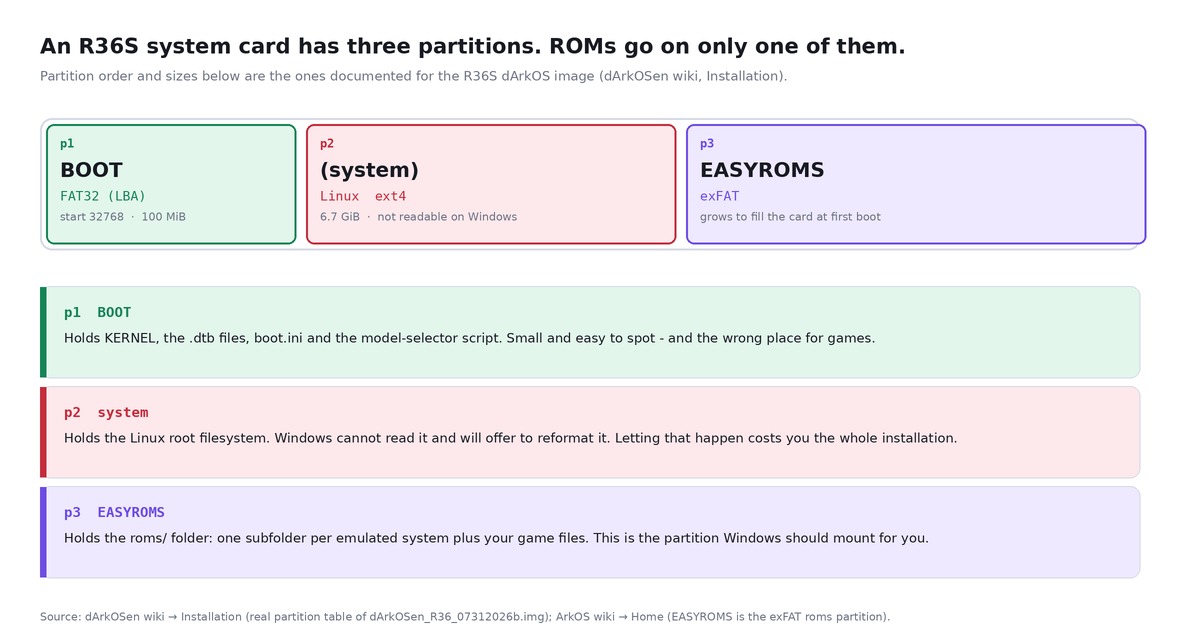
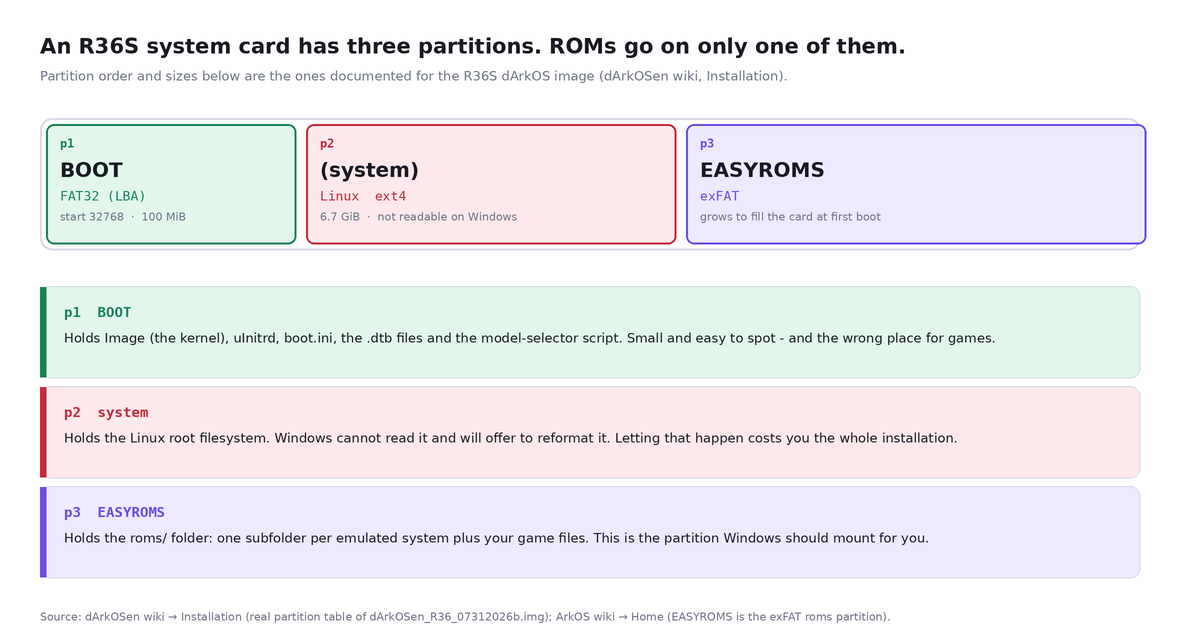
Correct the BOOT partition contents: Image + uInitrd, not uImage/KERNEL
The R36S boot.ini loads 'Image' and 'uInitrd', not a uImage - verified against the
real BOOT staging tree and boot.ini in southoz/dArkOSRE-R36. Fixes the partition
table row, the figure, and adds the BOOT tree as a source.

Changed region(s): [[0.0915, 0.5, 0.8237, 0.5625]]

diff --git a/README.zh-CN.md b/README.zh-CN.md
@@ -58,7 +58,7 @@ R36S **不是安卓**。没有 KPA 设备盘，没有 APK 要装，也没有"首
 
 | 分区 | 起始扇区 | 镜像内大小 | 类型码 | 装什么 |
 |---|---|---|---|---|
-| p1 | 32768 | 100 MiB | `0c` W95 FAT32 (LBA) | `KERNEL`、`.dtb` 文件、`boot.ini`、机型选择脚本 |
+| p1 | 32768 | 100 MiB | `0c` W95 FAT32 (LBA) | `Image`（内核）、`uInitrd`、`boot.ini`、`.dtb` 文件、机型选择脚本 |
 | p2 | 237568 | 6.7 GiB | `83` Linux (ext4) | Linux 根文件系统 |
 | p3 | 14368768 | 100 MiB 占位 | `07` HPFS/NTFS/exFAT | **首次开机后长成整卡并转成 exFAT，就是 `EASYROMS`** |
 
@@ -318,6 +318,7 @@ ArkOS 记录了两种完全不碰读卡器的加游戏方式：
 | 主张 | 来源 |
 |---|---|
 | `roms/` 下 122 个默认目录名 | [christianhaitian/arkos](https://github.com/christianhaitian/arkos) 仓库里的 `defaultromsfolderstructure.tar`，2026-10-11 用 `tar tf` 实跑核对 |
+| `BOOT` 分区里到底装什么，以及真实的 `boot.ini`（`load mmc 1:1 … Image`、`uInitrd`、`rk3326-r36s-linux.dtb`） | [`southoz/dArkOSRE-R36` → `files/BOOT/`](https://github.com/southoz/dArkOSRE-R36/tree/main/files/BOOT) |
 | R36S 这一档机器各平台的目录名、路径、核心、BIOS 文件 | [dArkOSRE-R36 wiki](https://github.com/southoz/dArkOSRE-R36/wiki)（各平台分页） |
 | R36S dArkOS 镜像的真实分区表与尺寸 | [dArkOSen-R36S wiki → Installation](https://github.com/djparentx/dArkOSen-R36S/wiki/Installation) |
 | `EASYROMS` 是 exFAT 游戏分区；Windows 可能需要手动分配盘符；不要删预置目录；用 SSH/Samba/FileBrowser 传文件；macOS 的 `._` 文件会导致不显示；第二卡槽支持的文件系统与 EXT4 的 `1002:1002` 警告 | [ArkOS wiki → Home](https://github.com/christianhaitian/arkos/wiki/Home) 与 [ArkOS FAQ](https://github.com/christianhaitian/arkos/wiki/Frequently-Asked-Questions---RG353V) |

diff --git a/README.md b/README.md
@@ -81,7 +81,7 @@ codes:
 
 | Partition | Start sector | Size in the image | Type code | What it holds |
 |---|---|---|---|---|
-| p1 | 32768 | 100 MiB | `0c` W95 FAT32 (LBA) | `KERNEL`, the `.dtb` files, `boot.ini`, the model selector |
+| p1 | 32768 | 100 MiB | `0c` W95 FAT32 (LBA) | `Image` (the kernel), `uInitrd`, `boot.ini`, the `.dtb` files, the model selector |
 | p2 | 237568 | 6.7 GiB | `83` Linux (ext4) | the Linux root filesystem |
 | p3 | 14368768 | 100 MiB placeholder | `07` HPFS/NTFS/exFAT | **becomes `EASYROMS`** — grown to fill the card and converted to exFAT on first boot |
 
@@ -372,6 +372,7 @@ capture is in the screenshots.
 | Claim | Source |
 |---|---|
 | The 122 default `roms/` folder names | `defaultromsfolderstructure.tar` in [christianhaitian/arkos](https://github.com/christianhaitian/arkos) — verified by running `tar tf … ` on 2026-10-11 |
+| What actually sits in the `BOOT` partition, and the real `boot.ini` (`load mmc 1:1 … Image`, `uInitrd`, `rk3326-r36s-linux.dtb`) | [`southoz/dArkOSRE-R36` → `files/BOOT/`](https://github.com/southoz/dArkOSRE-R36/tree/main/files/BOOT) |
 | Per-system folder name, path, core and BIOS file for R36S-class builds | [dArkOSRE-R36 wiki](https://github.com/southoz/dArkOSRE-R36/wiki) (per-system pages) |
 | Real partition table and sizes of the R36S dArkOS image | [dArkOSen-R36S wiki → Installation](https://github.com/djparentx/dArkOSen-R36S/wiki/Installation) |
 | `EASYROMS` is the exFAT roms partition; Windows may need a drive letter assigned; do not delete the shipped folders; SSH/Samba/FileBrowser for transfers; macOS `._` files break the listing; second-slot filesystem list and the `1002:1002` EXT4 warning | [ArkOS wiki → Home](https://github.com/christianhaitian/arkos/wiki/Home) and [ArkOS FAQ](https://github.com/christianhaitian/arkos/wiki/Frequently-Asked-Questions---RG353V) |
